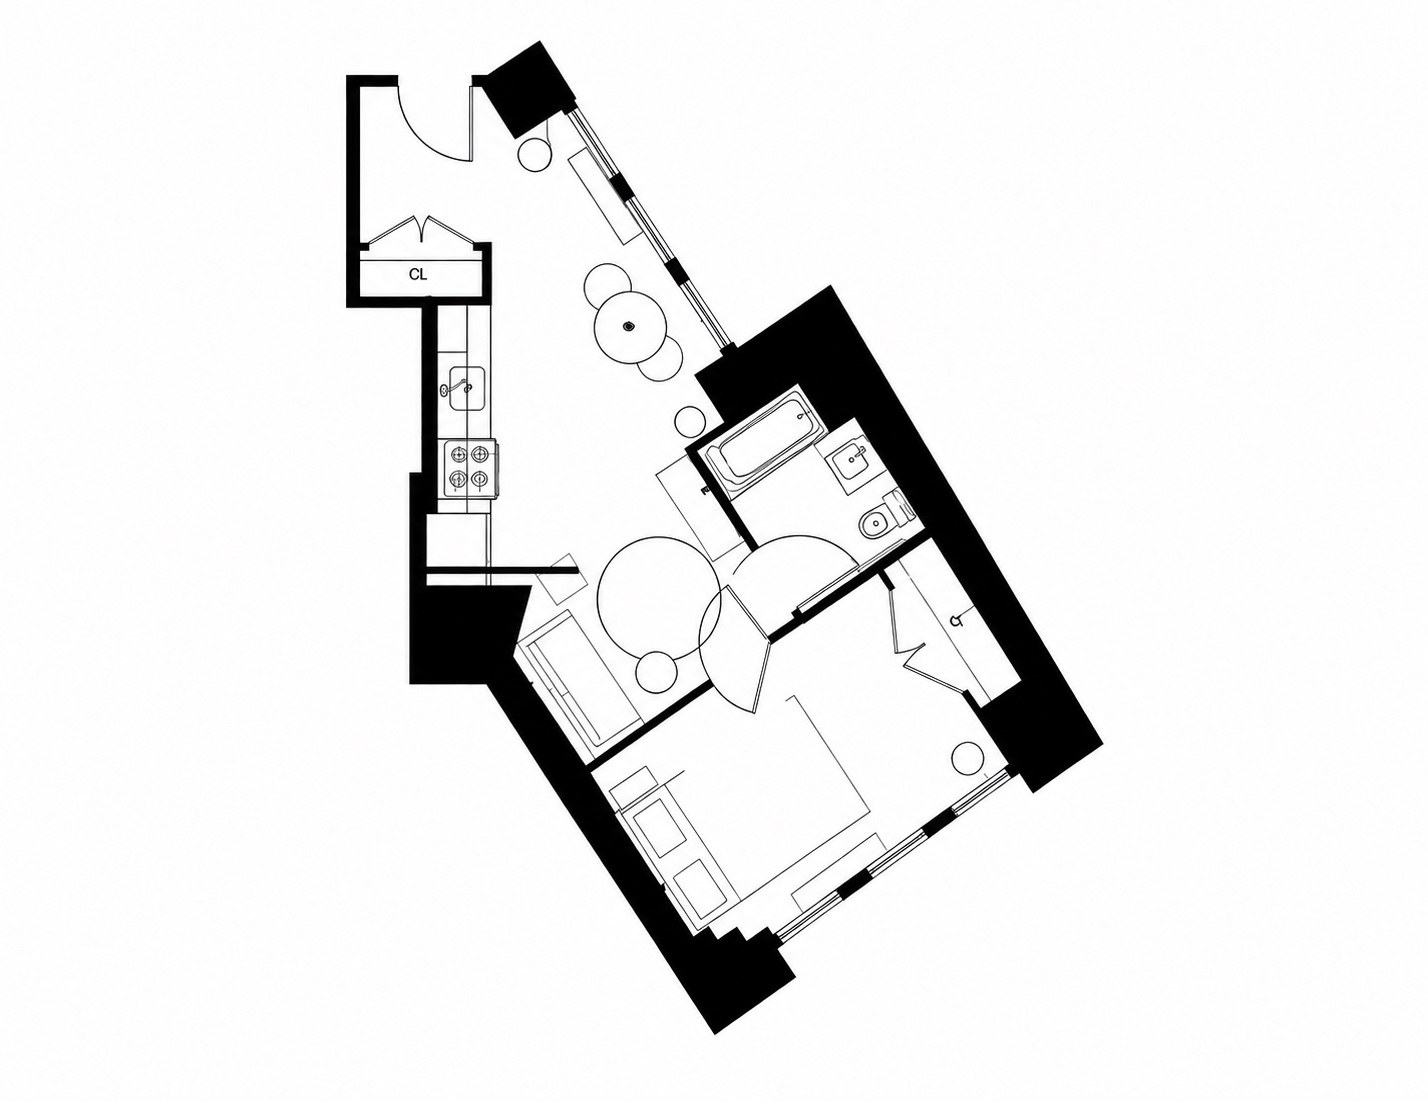
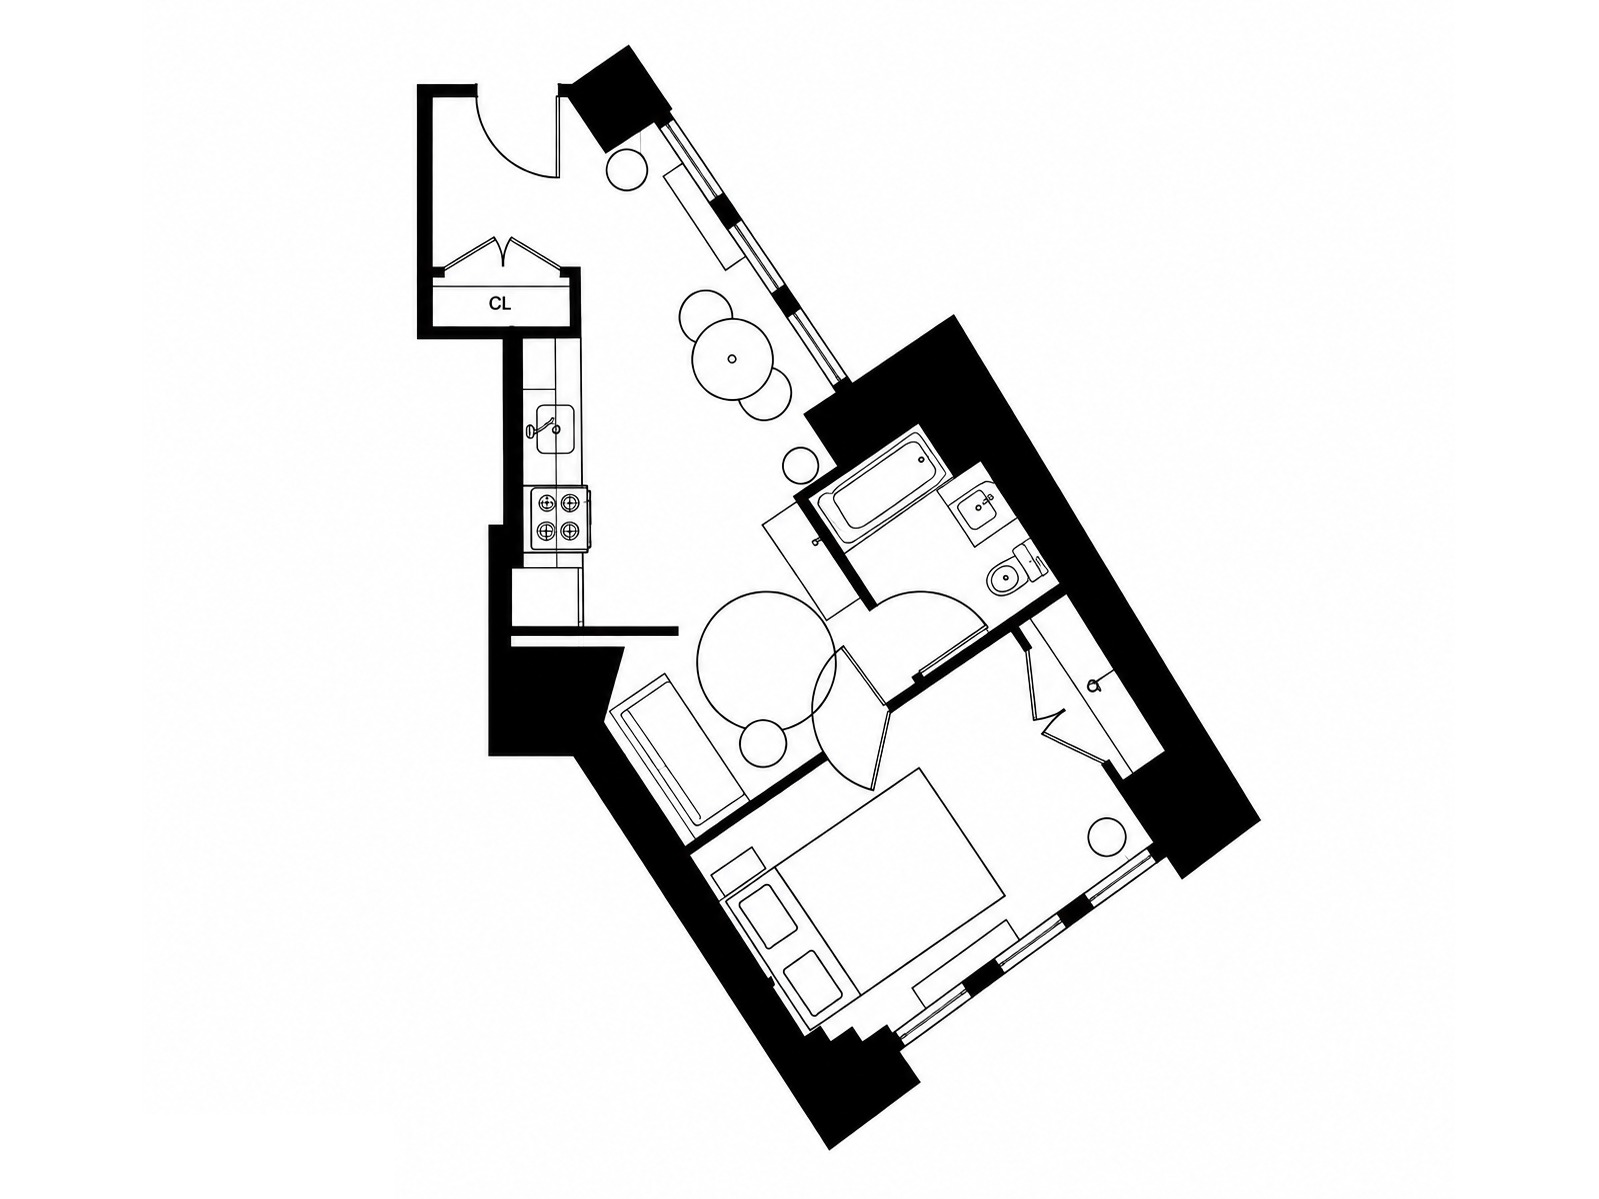
15 Park Row 8E and Pacific House 504: new floor plans
504 is the big one: the old plan was 524x662 and soft, the new one is
1901x1426 with the rooms labelled. 8E gets a cleaner draw of the same
layout.

Both had a BROADLINE wordmark stamped bottom-left, where photo-logo.js
draws the site's own; found by colour and whited out, which is invisible
on a plan's white ground. Both padded to 4:3 on white so the lightbox
shows them on white rather than in grey blurred bands. Filenames are
unchanged, so both refs on each page carry ?v=2 or the CDN keeps serving
the old plan.

Changed region(s): [[0.2157, 0.0309, 0.8011, 0.9573], [0.5854, 0.6794, 0.6162, 0.7103]]

diff --git a/park-row-8e.html b/park-row-8e.html
@@ -149,7 +149,7 @@
       <div class="gimg" style="background-image:url('15-park-row-8e-git/park-row-8e-7.jpg')" onclick="openLightbox(6)"></div>
       <div class="gimg" style="background-image:url('15-park-row-8e-git/park-row-8e-8.jpg')" onclick="openLightbox(7)"></div>
       <div class="gimg" style="background-image:url('15-park-row-8e-git/park-row-8e-9.jpg')" onclick="openLightbox(8)"></div>
-      <div class="gimg" style="background-image:url('15-park-row-8e-git/park-row-8e-10.jpg')" onclick="openLightbox(9)"></div>
+      <div class="gimg" style="background-image:url('15-park-row-8e-git/park-row-8e-10.jpg?v=2')" onclick="openLightbox(9)"></div>
   </section>
 
   <div class="gallery-cta"><button onclick="openLightbox(0)">View All 10 Photos</button></div>
@@ -187,7 +187,7 @@
 
 <script src="https://unpkg.com/leaflet@1.9.4/dist/leaflet.js" integrity="sha384-cxOPjt7s7Iz04uaHJceBmS+qpjv2JkIHNVcuOrM+YHwZOmJGBXI00mdUXEq65HTH" crossorigin="anonymous" referrerpolicy="no-referrer"></script>
 <script>
-  const photos = ['15-park-row-8e-git/park-row-8e-1.jpg','15-park-row-8e-git/park-row-8e-2.jpg','15-park-row-8e-git/park-row-8e-3.jpg','15-park-row-8e-git/park-row-8e-4.jpg','15-park-row-8e-git/park-row-8e-5.jpg','15-park-row-8e-git/park-row-8e-6.jpg','15-park-row-8e-git/park-row-8e-7.jpg','15-park-row-8e-git/park-row-8e-8.jpg','15-park-row-8e-git/park-row-8e-9.jpg','15-park-row-8e-git/park-row-8e-10.jpg'];
+  const photos = ['15-park-row-8e-git/park-row-8e-1.jpg','15-park-row-8e-git/park-row-8e-2.jpg','15-park-row-8e-git/park-row-8e-3.jpg','15-park-row-8e-git/park-row-8e-4.jpg','15-park-row-8e-git/park-row-8e-5.jpg','15-park-row-8e-git/park-row-8e-6.jpg','15-park-row-8e-git/park-row-8e-7.jpg','15-park-row-8e-git/park-row-8e-8.jpg','15-park-row-8e-git/park-row-8e-9.jpg','15-park-row-8e-git/park-row-8e-10.jpg?v=2'];
   let currentPhoto = 0;
   function openLightbox(i) {
     currentPhoto = i;

diff --git a/pacific-504.html b/pacific-504.html
@@ -184,7 +184,7 @@
 
 <script src="https://unpkg.com/leaflet@1.9.4/dist/leaflet.js" integrity="sha384-cxOPjt7s7Iz04uaHJceBmS+qpjv2JkIHNVcuOrM+YHwZOmJGBXI00mdUXEq65HTH" crossorigin="anonymous" referrerpolicy="no-referrer"></script>
 <script>
-  const photos = ['1010-pacific-street-504-git/pacific-504-1.jpg','1010-pacific-street-504-git/pacific-504-2.jpg','1010-pacific-street-504-git/pacific-504-3.jpg','1010-pacific-street-504-git/pacific-504-4.jpg','1010-pacific-street-504-git/pacific-504-5.jpg','1010-pacific-street-504-git/pacific-504-6.jpg','1010-pacific-street-504-git/pacific-504-7.jpg','1010-pacific-street-504-git/pacific-504-8.jpg','1010-pacific-street-504-git/pacific-504-floorplan-furnished.jpg'];
+  const photos = ['1010-pacific-street-504-git/pacific-504-1.jpg','1010-pacific-street-504-git/pacific-504-2.jpg','1010-pacific-street-504-git/pacific-504-3.jpg','1010-pacific-street-504-git/pacific-504-4.jpg','1010-pacific-street-504-git/pacific-504-5.jpg','1010-pacific-street-504-git/pacific-504-6.jpg','1010-pacific-street-504-git/pacific-504-7.jpg','1010-pacific-street-504-git/pacific-504-8.jpg','1010-pacific-street-504-git/pacific-504-floorplan-furnished.jpg?v=2'];
   let currentPhoto = 0;
   function openLightbox(i) {
     currentPhoto = i;
